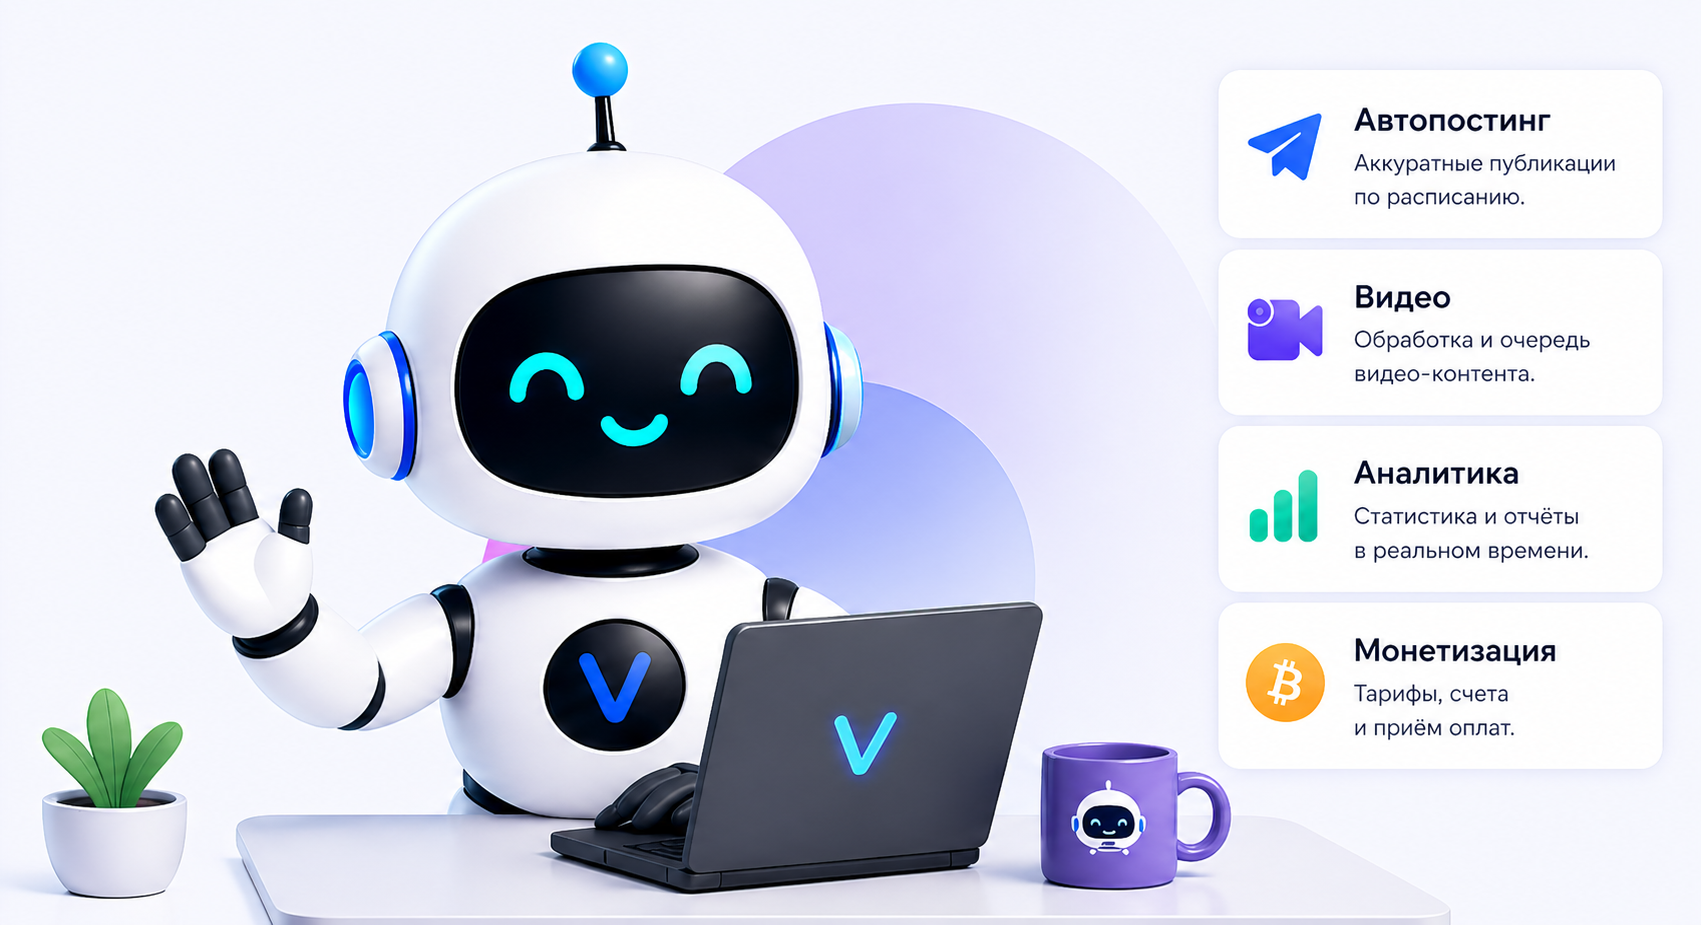
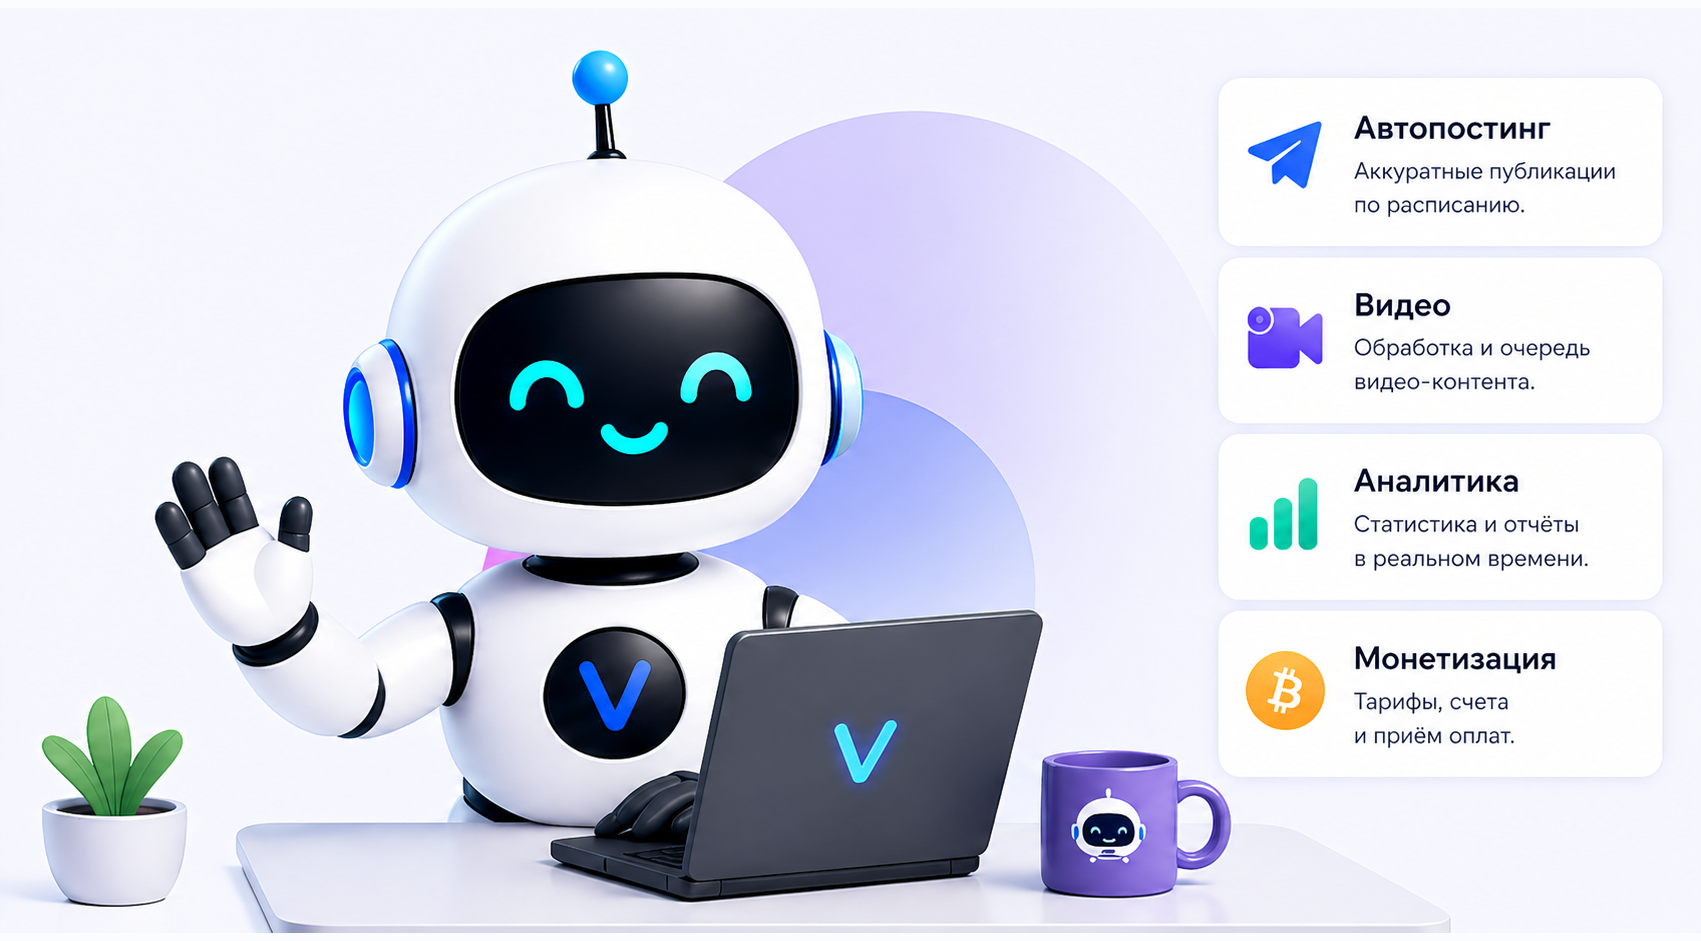
Rebuild hero around final scene image

diff --git a/landing/styles.css b/landing/styles.css
@@ -973,3 +973,94 @@
   display: none !important;
 }
 
+
+/* === HERO REBUILD AROUND SCENE IMAGE === */
+
+body {
+  background: #fbfcff !important;
+}
+
+.hero {
+  background: #fbfcff !important;
+  display: grid !important;
+  grid-template-columns: minmax(420px, 0.9fr) minmax(680px, 1.1fr) !important;
+  align-items: center !important;
+  gap: 36px !important;
+  min-height: 620px !important;
+  padding-top: 54px !important;
+  padding-bottom: 54px !important;
+}
+
+.hero-copy {
+  position: relative !important;
+  z-index: 3 !important;
+}
+
+.hero-stage {
+  position: relative !important;
+  width: 100% !important;
+  min-height: 520px !important;
+  height: auto !important;
+  display: flex !important;
+  align-items: center !important;
+  justify-content: center !important;
+  overflow: visible !important;
+  background: #fbfcff !important;
+}
+
+.hero-stage .orb,
+.hero-stage .hero-feature-card {
+  display: none !important;
+}
+
+.hero-scene,
+#heroRobot.hero-scene {
+  position: relative !important;
+  inset: auto !important;
+  right: auto !important;
+  bottom: auto !important;
+  transform: none !important;
+  display: block !important;
+  width: auto !important;
+  max-width: 100% !important;
+  height: auto !important;
+  max-height: 560px !important;
+  object-fit: contain !important;
+  filter: none !important;
+  mix-blend-mode: normal !important;
+}
+
+@media (max-width: 1050px) {
+  .hero {
+    grid-template-columns: 1fr !important;
+    text-align: center !important;
+    min-height: auto !important;
+  }
+
+  .hero-buttons,
+  .trust-row {
+    justify-content: center !important;
+  }
+
+  .hero-stage {
+    min-height: 430px !important;
+  }
+
+  .hero-scene,
+  #heroRobot.hero-scene {
+    max-height: 460px !important;
+  }
+}
+
+@media (max-width: 640px) {
+  .hero-stage {
+    min-height: 300px !important;
+  }
+
+  .hero-scene,
+  #heroRobot.hero-scene {
+    max-height: 320px !important;
+    max-width: 110% !important;
+  }
+}
+
